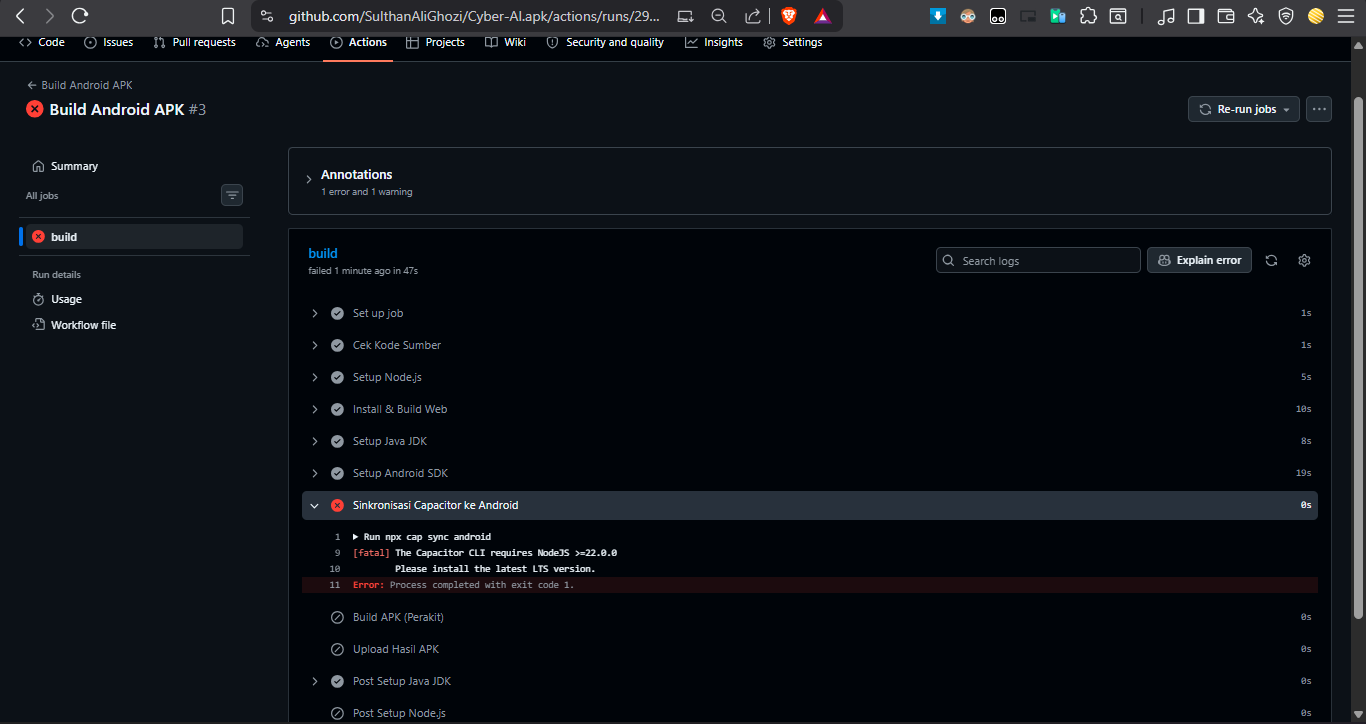
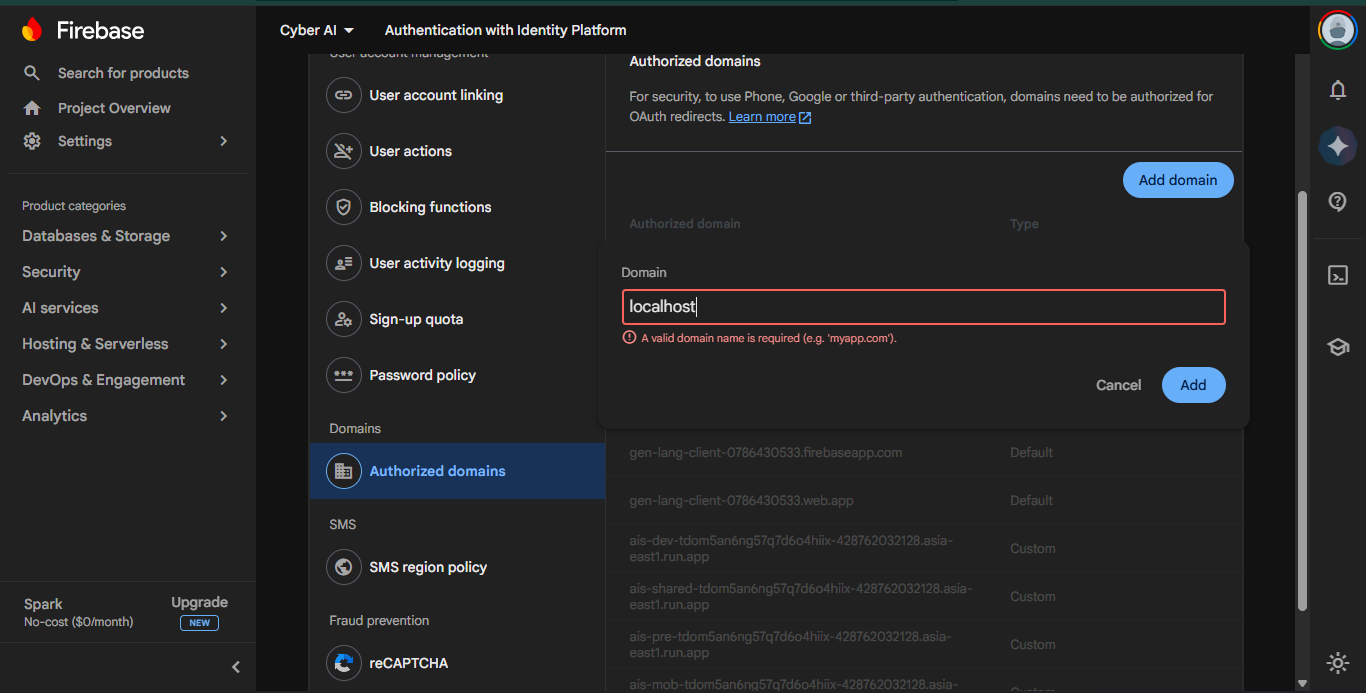
Update Capacitor hostname for Firebase Auth

diff --git a/capacitor.config.ts b/capacitor.config.ts
@@ -3,7 +3,11 @@ import type { CapacitorConfig } from '@capacitor/cli';
 const config: CapacitorConfig = {
   appId: 'com.cyber.ai.app',
   appName: 'Cyber AI',
-  webDir: 'dist'
+  webDir: 'dist',
+  server: {
+    hostname: 'cyber-ai-gacor.vercel.app',
+    androidScheme: 'https'
+  }
 };
 
 export default config;